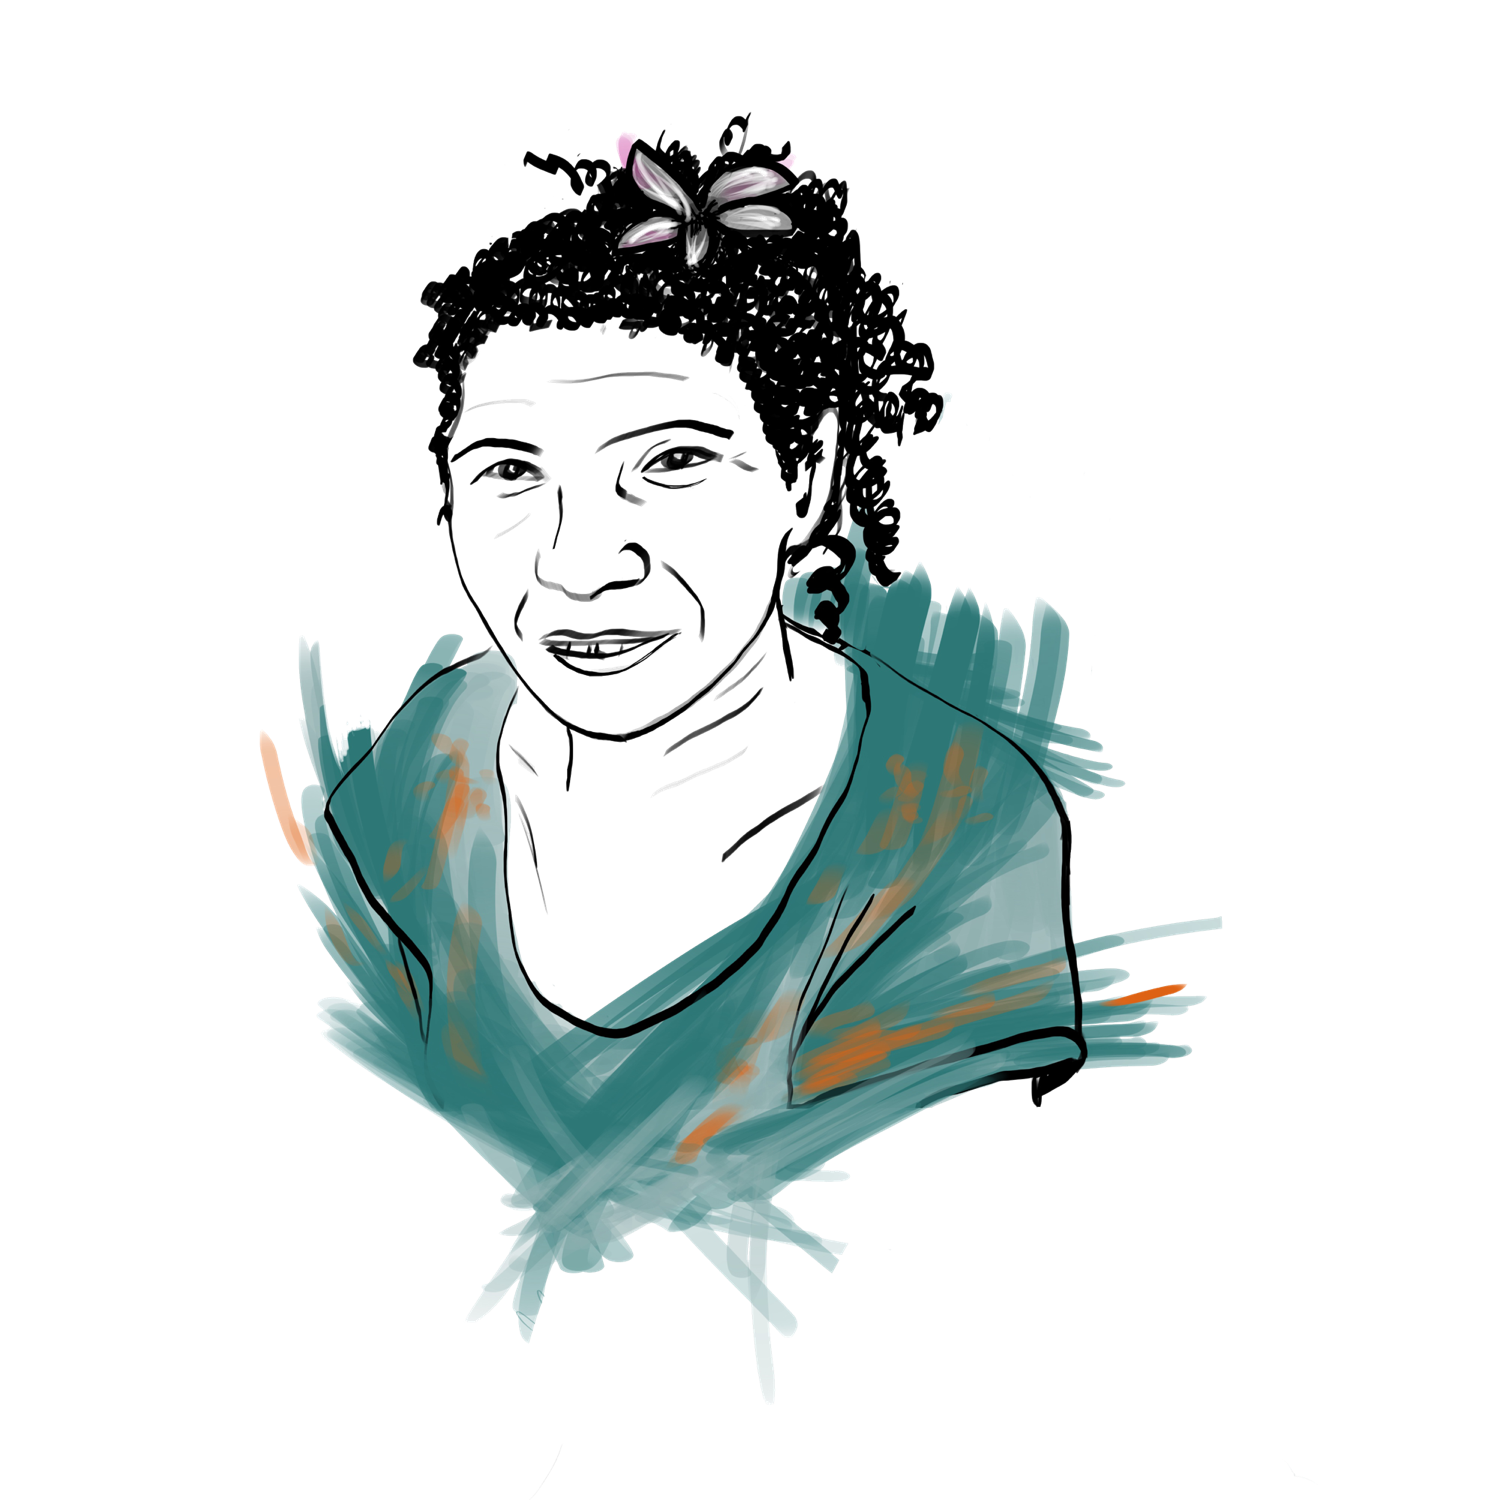
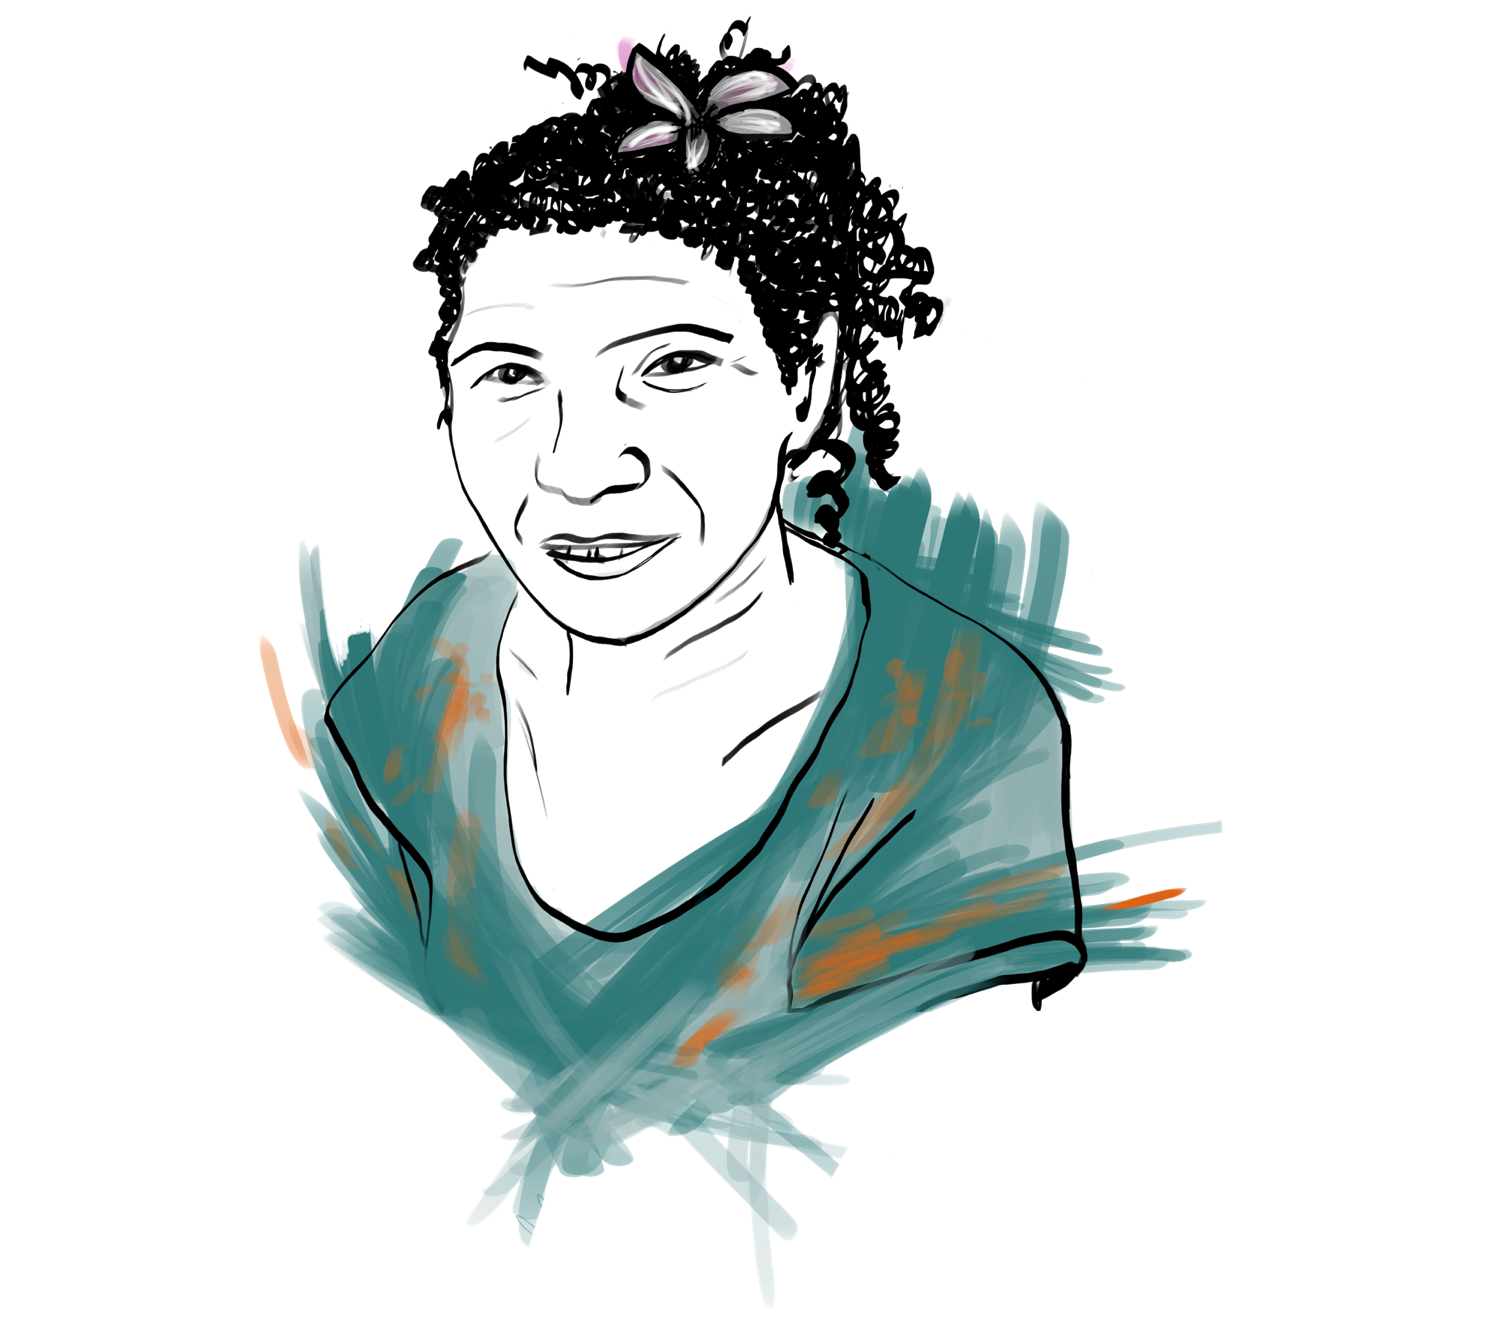
morena portrait stays on screen

Changed region(s): [[0.184, 0.0, 0.828, 0.9636], [0.184, 0.4041, 0.2147, 0.4352]]

diff --git a/scripts/canners/morena.js b/scripts/canners/morena.js
@@ -60,8 +60,8 @@
             .addTo(controller);
 
     var morenaTween = new TimelineMax()
-                    .add(TweenMax.to('#portrait',1, {width:350, ease:Linear.easeNone}));
-    var morenaScene = new ScrollMagic.Scene({triggerElement:"#portrait",triggerHook:'onLeave',
+                    .add(TweenMax.to('#portrait',1, {width:350, bottom:0, ease:Linear.easeNone}));
+    var morenaScene = new ScrollMagic.Scene({triggerElement:"#trigger",triggerHook:'onLeave',
         duration:400, tweenChanges: true, reverse:true})
         .setTween(morenaTween)
         // .addIndicators()
@@ -70,7 +70,7 @@
     var morenaTween = new TimelineMax()
                     .add(TweenMax.to('#container',1, {marginTop:350, ease:Linear.easeNone}))
                     // .add(TweenMax.to("#legend svg",1,{position:'fixed'}));
-    var morenaScene = new ScrollMagic.Scene({triggerElement:"#portrait",triggerHook:'onLeave',
+    var morenaScene = new ScrollMagic.Scene({triggerElement:"#trigger",triggerHook:'onLeave',
         duration:400, tweenChanges: true, reverse:true})
         .setTween(morenaTween)
         // .addIndicators()

diff --git a/style/morena.css b/style/morena.css
@@ -104,7 +104,10 @@
 
      #portrait{
       width:80vw;
-      position: relative;
+      position: fixed;
+      bottom:-20;
+      right:0;
+      z-index: 100;
       /*top:0;
       left:0;
       display: inline-block;*/

diff --git a/canners/morena/index.html b/canners/morena/index.html
@@ -29,6 +29,7 @@
 
 <body>
   <div id="legend">
+    <div id="trigger"></div>
     <img id="portrait" src="../../img/morena/Morena.png"/>
      
 
